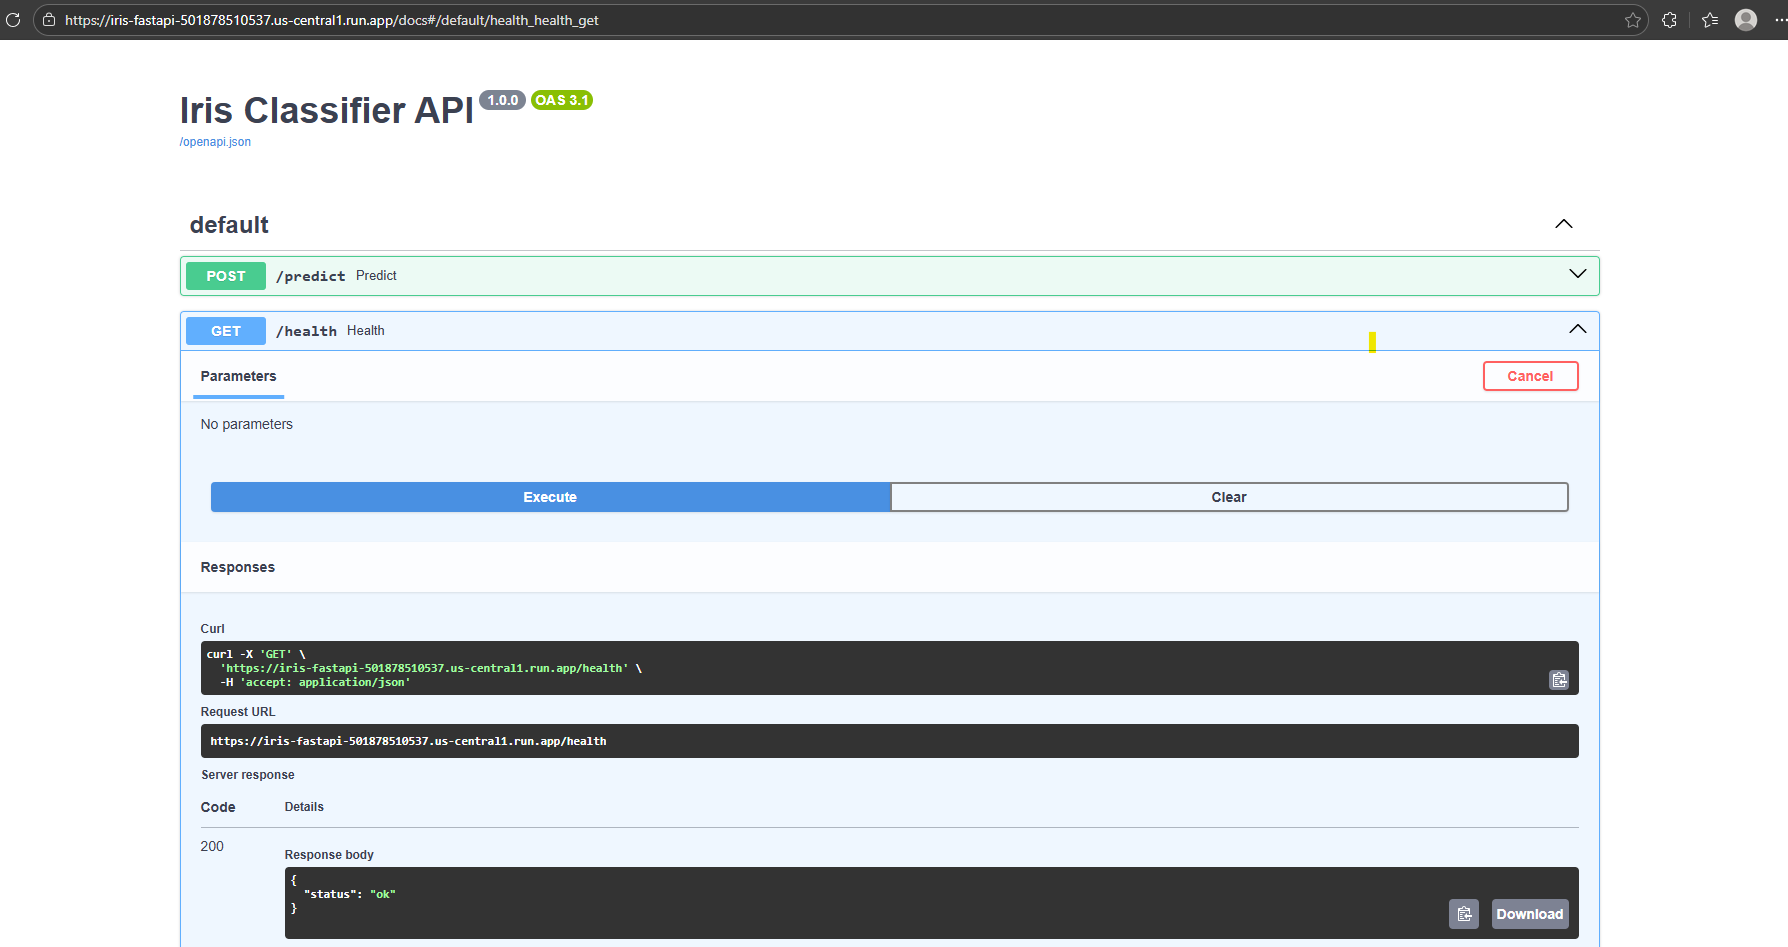
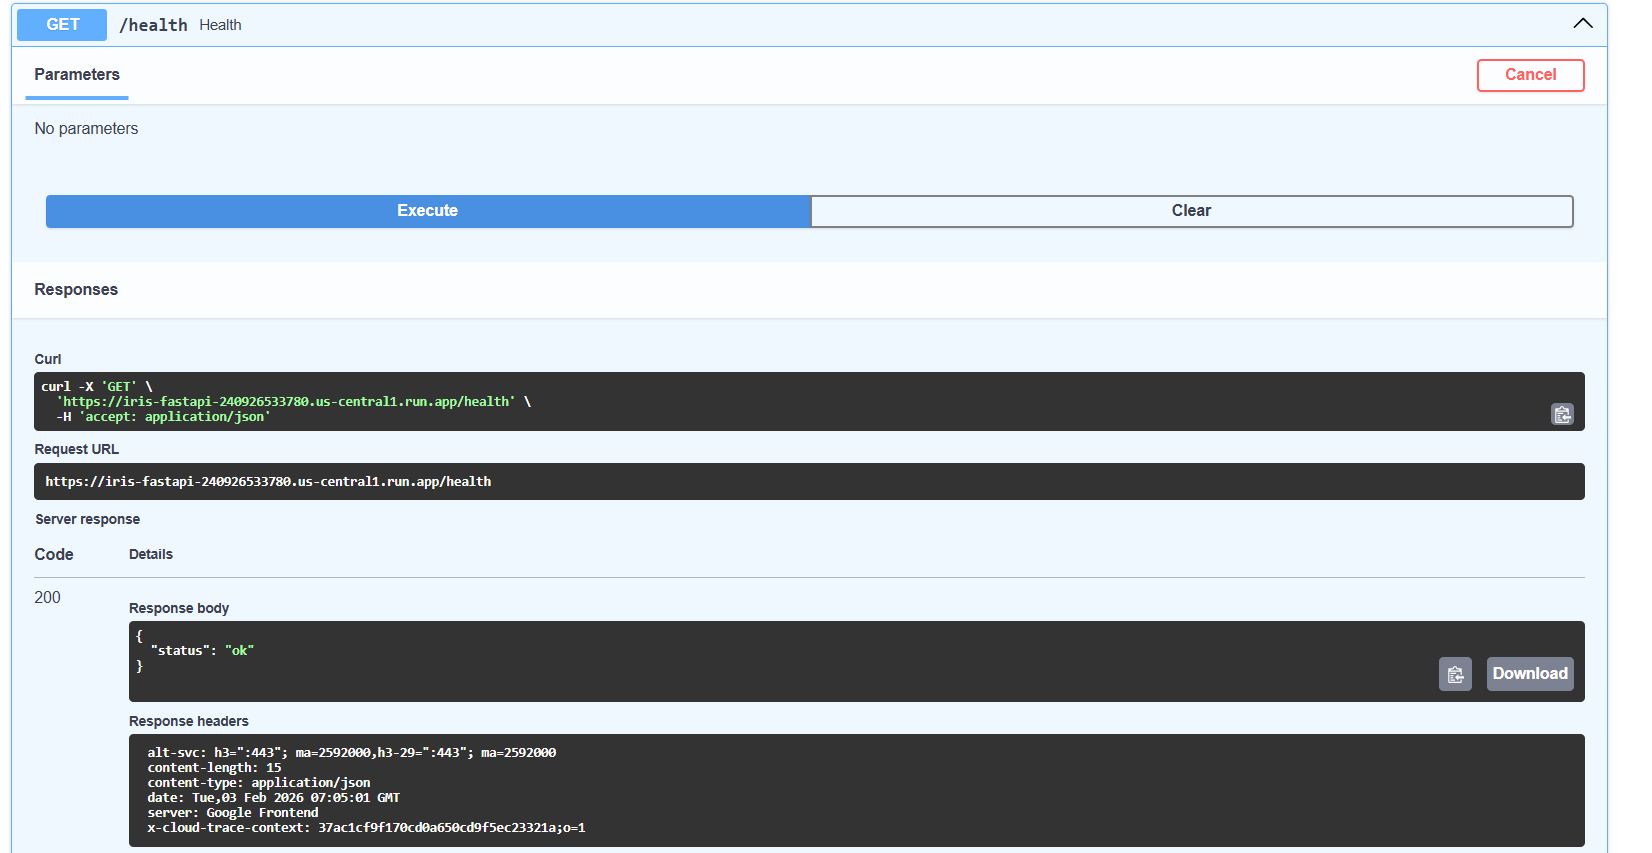
Milestone 1: Cloud Run and Cloud Functions model serving implementation

diff --git a/cloud_function/main.py b/cloud_function/main.py
@@ -1,30 +1,45 @@
+import os
 import joblib
 import numpy as np
 
-# Load model at import time (best practice for Cloud Functions)
-model = joblib.load("model.pkl")
+MODEL_PATH = os.path.join(os.path.dirname(__file__), "model.pkl")
+model = joblib.load(MODEL_PATH)
 
 def predict(request):
+    # ---------- HEALTH CHECK ----------
+    if request.method == "GET":
+        if request.args and request.args.get("health") == "true":
+            return {
+                "status": "ok",
+                "model_loaded": True
+            }
+        return ("Not Found", 404)
+
+    # ---------- PREDICTION ----------
     request_json = request.get_json(silent=True)
 
-    if not request_json:
-        return {"error": "Invalid JSON"}, 400
+    if request_json is None:
+        return ("Invalid or missing JSON payload", 400)
 
     try:
         features = np.array([[
-            request_json["sepal_length"],
-            request_json["sepal_width"],
-            request_json["petal_length"],
-            request_json["petal_width"]
+            float(request_json["sepal_length"]),
+            float(request_json["sepal_width"]),
+            float(request_json["petal_length"]),
+            float(request_json["petal_width"])
         ]])
 
         prediction = int(model.predict(features)[0])
-        confidence = float(max(model.predict_proba(features)[0]))
 
         return {
-            "prediction": prediction,
-            "confidence": confidence
+            "prediction": prediction
         }
 
     except KeyError as e:
-        return {"error": f"Missing field: {str(e)}"}, 400
+        return (f"Missing field: {str(e)}", 400)
+
+    except ValueError as e:
+        return (f"Invalid input: {str(e)}", 400)
+
+    except Exception as e:
+        return (f"Internal error: {str(e)}", 500)

diff --git a/README.md b/README.md
@@ -1,54 +1,185 @@
 # Milestone 1 – Web & Serverless Model Serving
 
-## Overview
-This project demonstrates the deployment of a trained scikit-learn model using two serving patterns:
-1. A containerized FastAPI service deployed on Google Cloud Run
-2. A serverless Google Cloud Function implementing the same inference logic
+This project demonstrates serving a trained scikit-learn model using two cloud deployment patterns:
 
-The goal is to compare lifecycle behavior, artifact management, latency characteristics, and reproducibility across deployment patterns.
+    A containerized FastAPI service deployed on Google Cloud Run
+    A serverless Cloud Function (Gen 2) implementing the same inference logic
 
----
+Both deployments use the same trained model artifact, enabling a clear comparison of serving lifecycle, artifact handling, and platform trade-offs.
 
-## Model Artifact
-A logistic regression model trained on the Iris dataset was saved as a serialized artifact (`model.pkl`).  
-The model is trained offline and loaded by the serving layer for inference only, reflecting a clear separation between training and serving stages of the ML lifecycle.
+## 1. Setup Instructions
 
----
+    Local Environment
+    Python 3.11
+    pip
+    Docker (for Cloud Run)
+    Google Cloud SDK (gcloud)
 
-## Local FastAPI Service
+### Project Setup
 
-### Architecture
-- FastAPI provides the web serving layer
-- Pydantic enforces request and response schema validation
-- The trained model artifact is loaded once at application startup and reused for all prediction requests
+```bash
+git clone https://github.com/surekhajanapareddy/ml-milestone1-2304-sj
+cd ml-milestone1-2304-sj
+```
+Create and activate a virtual environment:
 
-### Endpoints
-- `POST /predict` – Accepts feature inputs and returns a prediction with confidence
-- `GET /health` – Service health check endpoint
+```bash
+python -m venv .venv
+source .venv/bin/activate   # Windows: .venv\Scripts\Activate
+pip install -r requirements.txt
+```
 
-### Running Locally
+Run the FastAPI service locally:
+
 ```bash
 uvicorn main:app --reload
-
 ```
-### Interactive API documentation is available at
 
+Interactive API documentation:
+
+```bash
 http://127.0.0.1:8000/docs
+```
 
+## 2. API Usage Examples
 
-## Cloud Run Deployment
+### Cloud Run – Prediction
 
-The FastAPI service was containerized using Docker and pushed to Google Cloud Artifact Registry.  
-It was then deployed to Google Cloud Run as a fully managed, serverless container service.
+```bash 
+POST /predict
+```
+Request
 
-- The container reads the serving port from the `PORT` environment variable, ensuring Cloud Run compatibility.
-- The trained model artifact is loaded at container startup and reused across requests.
-- Cloud Run handles HTTPS, autoscaling, and instance lifecycle management.
+```bash
+{
+  "sepal_length": 5.1,
+  "sepal_width": 3.5,
+  "petal_length": 1.4,
+  "petal_width": 0.2
+}
+```
 
-### Live Service URL
-https://iris-fastapi-501878510537.us-central1.run.app
+Response
 
-### Endpoints
-- `GET /health`
-- `POST /predict`
-- `GET /docs`
+```bash
+{
+    "prediction": 0,
+    "confidence": 0.9765720577979708
+}
+```
+### Cloud Run – Health Check
+
+```bash
+GET /health
+```
+
+Response
+
+```bash
+{
+    "status": "ok"
+}
+```
+
+### Cloud Function – Prediction
+
+```bash
+POST /predict
+```
+
+Request
+
+```bash
+{
+  "sepal_length": 5.1,
+  "sepal_width": 3.5,
+  "petal_length": 1.4,
+  "petal_width": 0.2
+}
+```
+
+Response
+
+```bash
+{
+    "prediction": 0
+}
+```
+### Cloud Function – Health Check
+
+```bash
+GET ?health=true
+```
+
+Response
+
+```bash
+{
+    "model_loaded": true,
+    "status": "ok"
+}
+```
+
+## 3. Deployment URLs
+
+### Cloud Run (Containerized FastAPI)
+
+```bash
+https://iris-fastapi-240926533780.us-central1.run.app
+```
+
+#### Available endpoints:
+
+    /predict
+    /health
+    /docs
+
+### Cloud Function (Gen 2)
+
+```bash
+https://us-central1-ml-milestone1-2304-sj.cloudfunctions.net/iris-predict-fn
+```
+
+## 4. Lifecycle Explanation
+
+### Model Artifact Lifecycle
+
+    A Logistic Regression model is trained offline on the Iris dataset.
+    The trained model is serialized as model.pkl.
+    Training and serving are fully decoupled.
+
+### Cloud Run Lifecycle
+
+    The FastAPI application and model artifact are packaged into a Docker image.
+    The container reads the serving port from the PORT environment variable.
+    The model is loaded once at container startup (cold start).
+    Subsequent requests reuse the in-memory model instance.
+    Cloud Run manages instance creation, scaling, and shutdown.
+
+### Cloud Functions Lifecycle
+
+    Cloud Functions (Gen 2) expose a single HTTP handler.
+    User-managed web servers are not allowed.
+    Only files inside the function source directory are deployed.
+    The model artifact is loaded once during cold start.
+    Each request is stateless and handled independently.
+
+This highlights how artifact visibility and startup behavior differ between container-based and function-based platforms.
+
+## 5. Comparative Analysis
+
+| Aspect                 | Cloud Run                   | Cloud Functions (Gen 2) |
+| ---------------------- | --------------------------- | ----------------------- |
+| Abstraction            | Container-based service     | Function-based handler  |
+| Routing                | Multiple endpoints          | Single handler          |
+| Runtime control        | Full control via Docker     | Restricted runtime      |
+| Artifact scope         | Entire container filesystem | Source directory only   |
+| Health checks          | Explicit `/health` endpoint | Logical health check    |
+| Cold start behavior    | Less frequent               | More frequent           |
+| Operational complexity | Moderate                    | Low                     |
+| Flexibility            | High                        | Lower                   |
+
+### Summary:
+
+Cloud Run provides greater flexibility and runtime control, making it suitable for complex web services. Cloud Functions emphasize simplicity and minimal operational overhead but impose stricter constraints. Both platforms support scalable, stateless inference when designed correctly.
+
